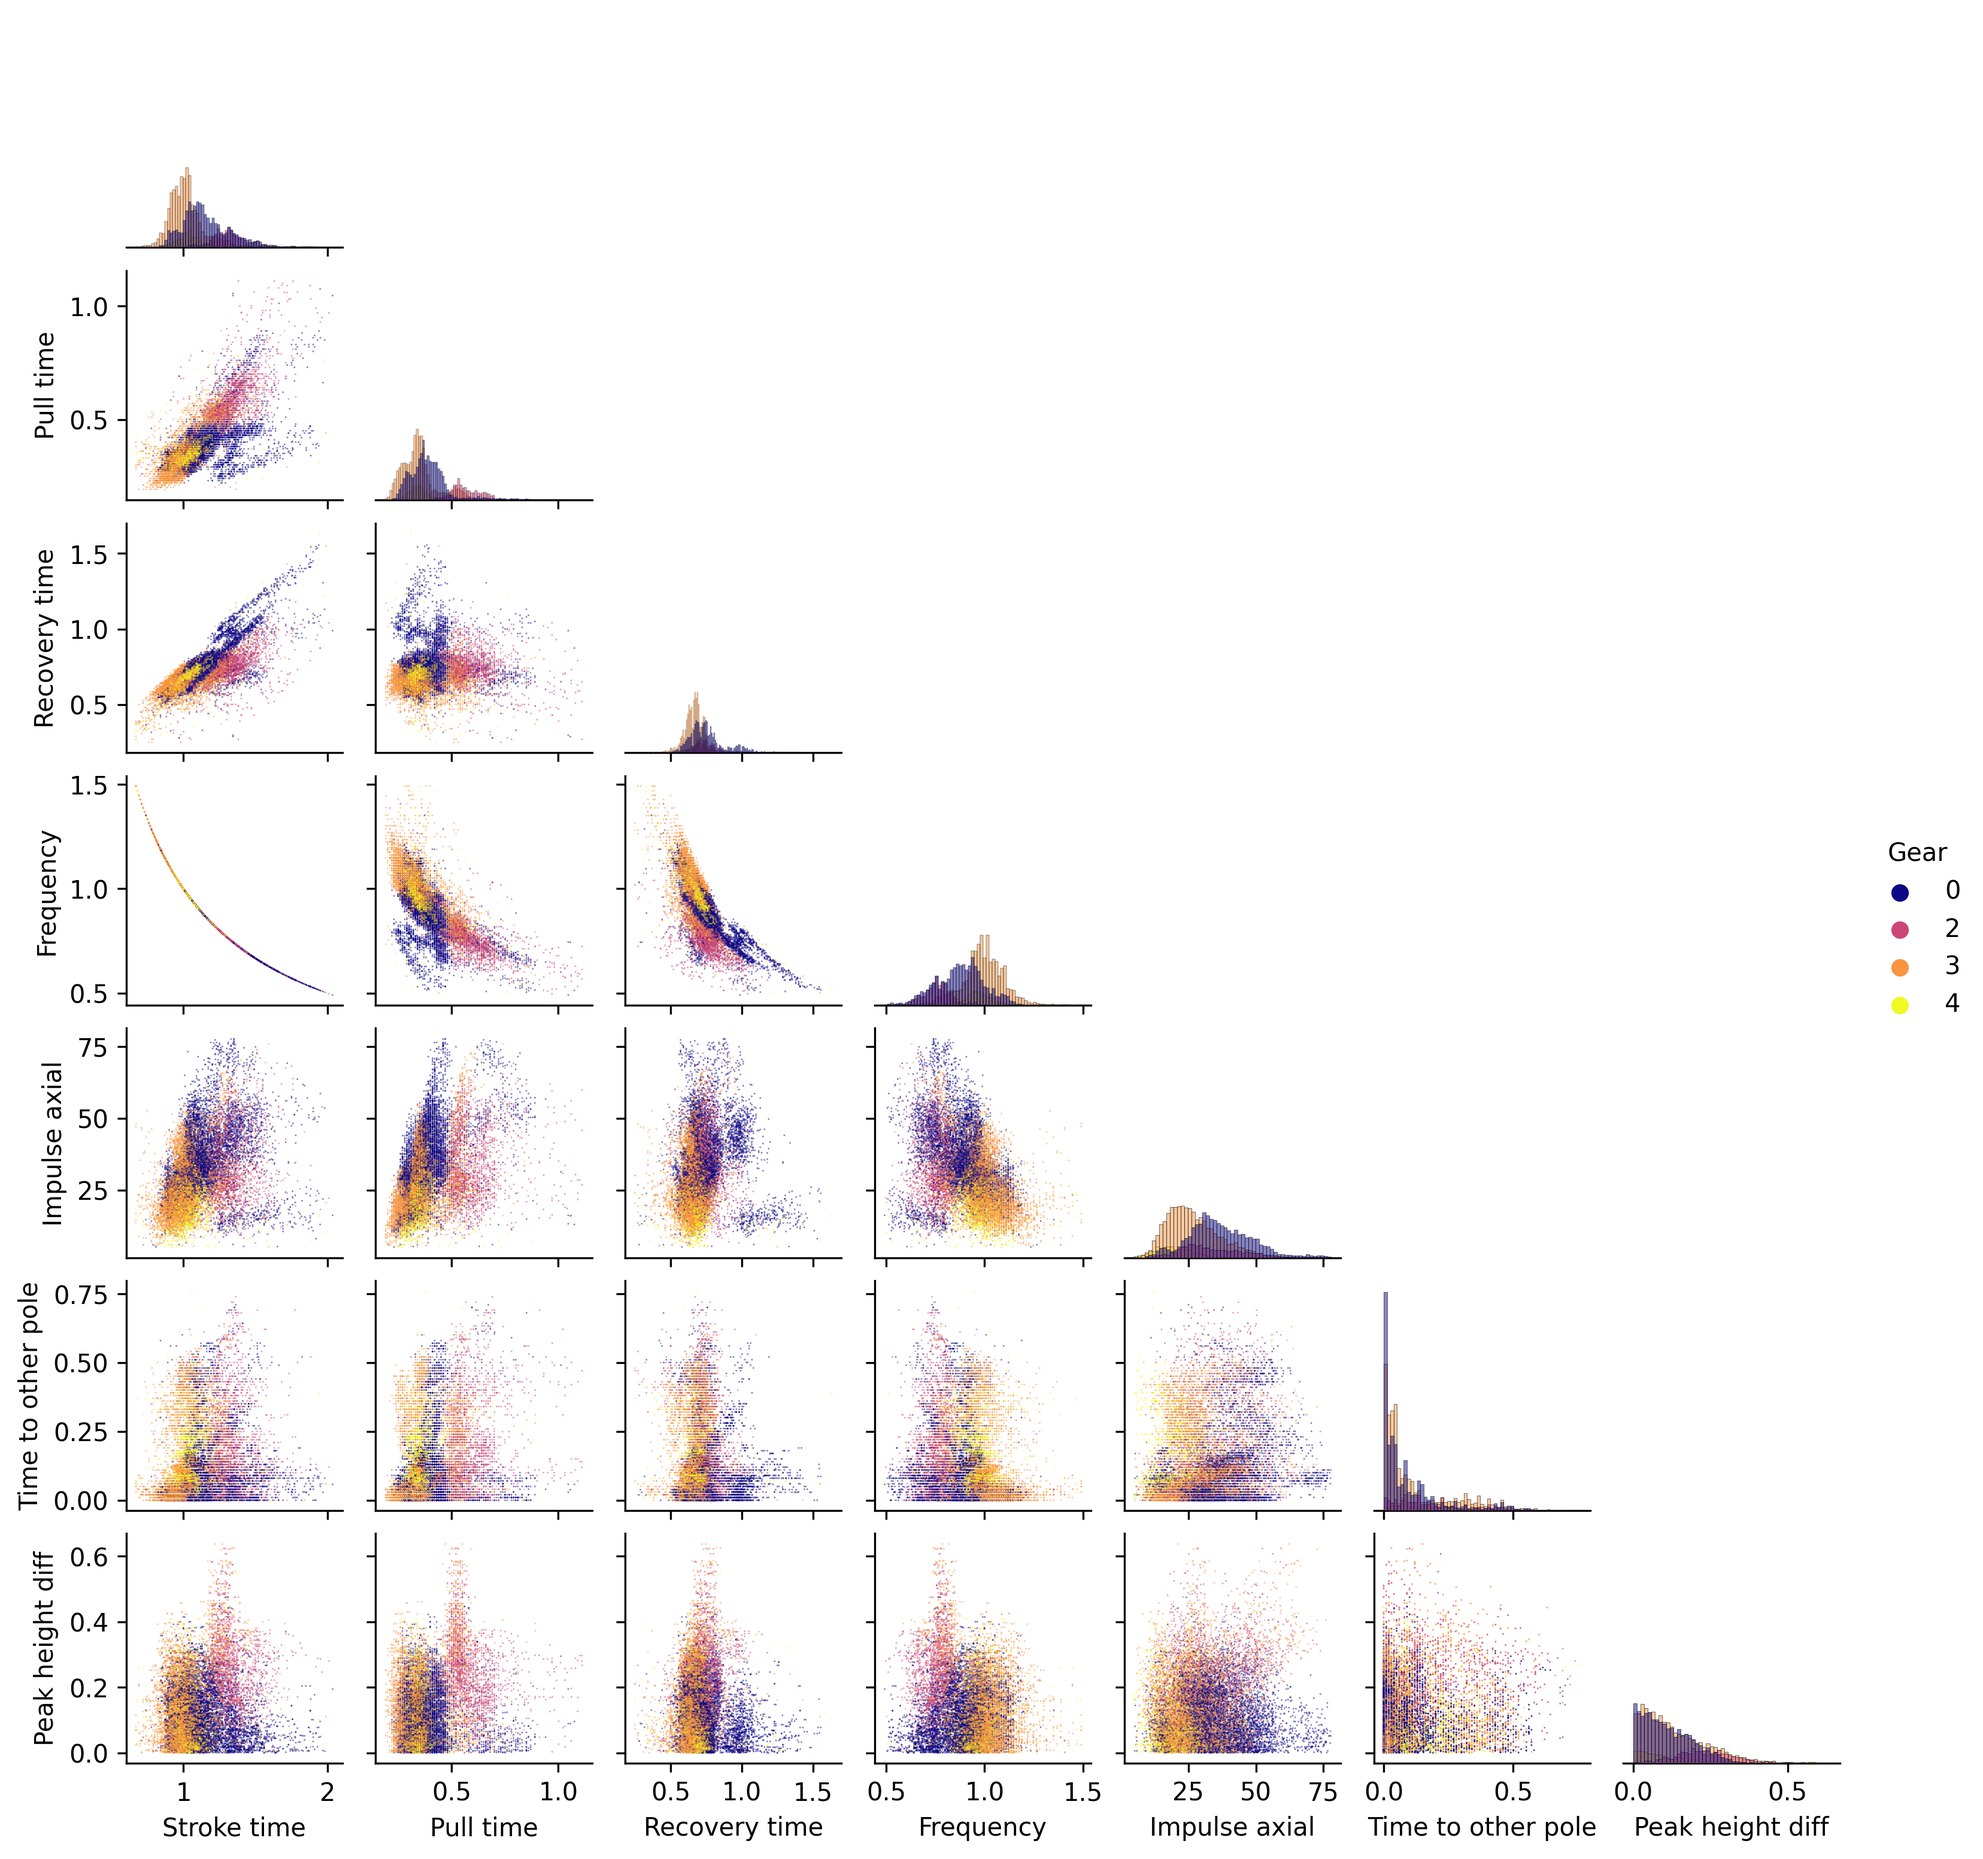
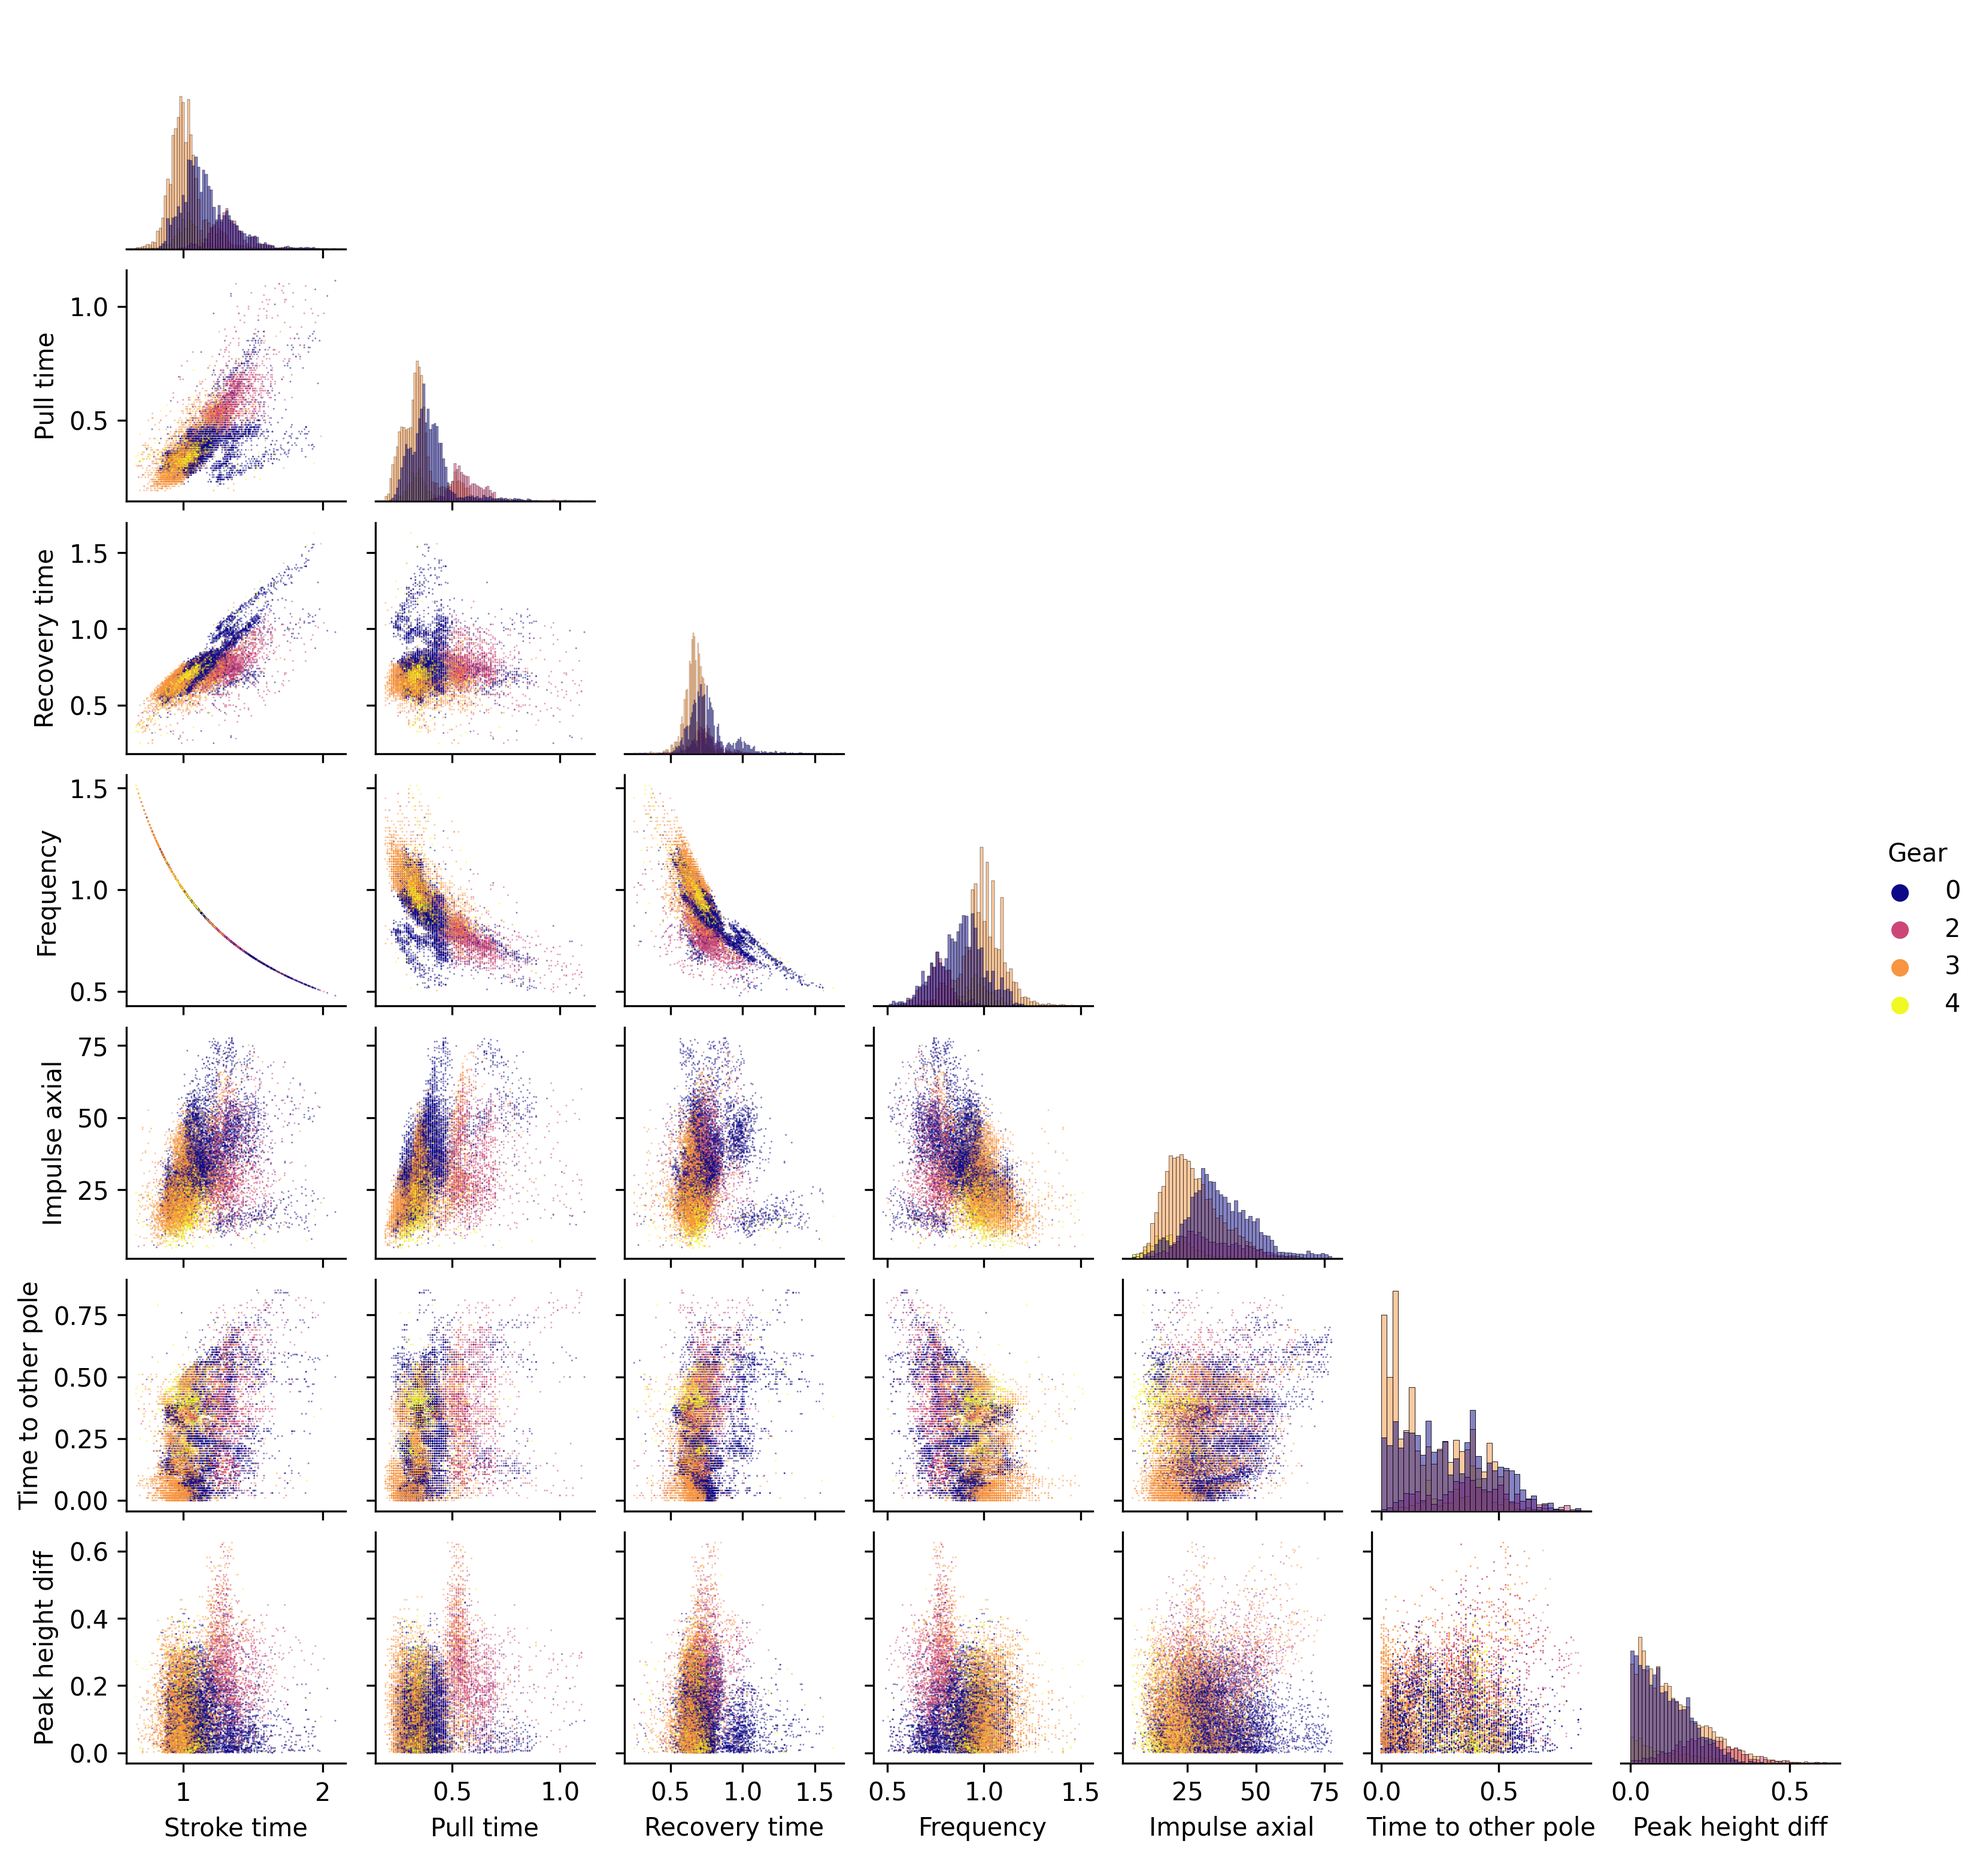
Final changes to algortihm

diff --git a/functions/dataframe_functions.py b/functions/dataframe_functions.py
@@ -66,145 +66,7 @@ def get_dataframe(filepath_list, skier_list):
     return df, df_peaks, df_info
 
 
-def get_dataframe_with_shift(filepath_list, skier_list):
-    """
-    The main function to call to generate all dataframes
-
-    Parameters
-    ----------
-    filepath_list : list of strings
-        A list of the filepath for the CSV files for the source files
-
-    skier_list : list of ints
-        A list of the indentity of the different skiers.
-
-    Returns
-    -------
-    df : dataframe
-        Dataframe over the timeseries data
-
-    df_peaks : dataframe
-        Dataframe over the stroke information on a timeseries basis
-
-    df_info : dataframe
-        Dataframe over individual pulling, the dataframe for doing
-        machine learning since it doesn't contain any timeseries information
-    """
-    for j in range(len(skier_list)):
-        i = skier_list[j]
-        filepath = filepath_list[j]
-        # If it's the first call we save to variables without append, else with
-        # append
-        if i == skier_list[0]:
-            # Calling the generate_stroke_dataframe to get all of the data
-            dataframe_dict = generate_stroke_dataframe_with_shift(filepath, i)
-            # Saving the data to variables
-            df = dataframe_dict["df"]
-            df_peaks = dataframe_dict["df_peaks_left"]
-            df_peaks = df_peaks.append(
-                dataframe_dict["df_peaks_right"], ignore_index=True
-            )
-            df_info = dataframe_dict["df_info_left"]
-            df_info = df_info.append(
-                dataframe_dict["df_info_right"], ignore_index=True
-            )
-        else:
-            # Calling generate_stroke_dataframe for the rest of the skiers
-            dataframe_dict = generate_stroke_dataframe_with_shift(filepath, i)
-            # Appending the data to variables
-            df = df.append(dataframe_dict["df"], ignore_index=True)
-            df_peaks = df_peaks.append(
-                dataframe_dict["df_peaks_left"], ignore_index=True
-            )
-            df_peaks = df_peaks.append(
-                dataframe_dict["df_peaks_right"], ignore_index=True
-            )
-            df_info = df_info.append(
-                dataframe_dict["df_info_left"], ignore_index=True
-            )
-            df_info = df_info.append(
-                dataframe_dict["df_info_right"], ignore_index=True
-            )
-    return df, df_peaks, df_info
-
-
 def generate_stroke_dataframe(filepath, i):
-    """
-    Function to call when getting data from one skier
-
-    Parameters
-    ----------
-    filepath : str
-        Filepath for the specific skier
-
-    i : int
-        Skier indentity
-
-    Returns
-    -------
-    dataframe_dict : dict
-        A dictionary with keys "df", "df_peaks_left", "df_peaks_right",
-        "df_info_left", "df_info_right" which are all dataframes
-    """
-    # Reading CSV
-    df = ImportData(filepath, i)
-    # Needing to fix the timeseries, using the same method as MATLAB
-    df["Time (sec)"] = np.linspace(
-        np.min(df["Time (sec)"]), np.max(df["Time (sec)"]), len(df.index)
-    )
-    # Same for min
-    df["Time (min)"] = np.linspace(
-        np.min(df["Time (min)"]), np.max(df["Time (min)"]), len(df.index)
-    )
-
-    # Calling GetStrokes and GetInfo for both left and right
-    df_peaks_left = GetStrokes(df, "Left")
-    df_peaks_right = GetStrokes(df, "Right")
-    df_info_left = GetInfo(df_peaks_left)
-    df_info_right = GetInfo(df_peaks_right)
-    # Adding the time between nearest left and right pulling
-    df_info_left, df_info_right = add_left_and_right_diff(
-        df_peaks_left, df_peaks_right, df_info_left, df_info_right
-    )
-    left_0 = df_peaks_left[df_peaks_left["Gear"] == 0][10:90]
-    left_0 = left_0["Peak time"].values
-    right_0 = df_info_left[df_info_left["Gear"] == 0][10:90]
-    right_0 = right_0["Other pole time"].values
-    x = left_0
-    y = left_0 - right_0
-    k, m = np.polyfit(x, y, 1)
-    time = df["Time (sec)"].values
-    comp = k * np.linspace(np.min(time), np.max(time), len(time)) + m
-    time = time - comp
-    df["Force right (N)"] = np.interp(
-        time, df["Time (sec)"], df["Force right (N)"], left=0, right=0
-    )
-    df["Time (sec)"] = time
-    df["Time (min)"] = time / 60
-
-    df_peaks_left = GetStrokes(df, "Left")
-    df_peaks_right = GetStrokes(df, "Right")
-
-    df_info_left = GetInfo(df_peaks_left)
-    df_info_right = GetInfo(df_peaks_right)
-
-    # Adding the time between nearest left and right pulling
-    df_info_left, df_info_right = add_left_and_right_diff(
-        df_peaks_left, df_peaks_right, df_info_left, df_info_right
-    )
-
-    # Saving it all to a dictionary
-    dataframe_dict = {
-        "df": df,
-        "df_peaks_left": df_peaks_left,
-        "df_peaks_right": df_peaks_right,
-        "df_info_left": df_info_left,
-        "df_info_right": df_info_right,
-    }
-    return dataframe_dict
-
-
-def generate_stroke_dataframe_with_shift(filepath, i):
     """
     Function to call when getting data from one skier
 
@@ -240,32 +102,6 @@ def generate_stroke_dataframe_with_shift(filepath, i):
     df_peaks_right = GetStrokes(df, "Right")
     df_info_left = GetInfo(df_peaks_left)
     df_info_right = GetInfo(df_peaks_right)
-    # Adding the time between nearest left and right pulling
-    df_info_left, df_info_right = add_left_and_right_diff(
-        df_peaks_left, df_peaks_right, df_info_left, df_info_right
-    )
-    left_0 = df_peaks_left[df_peaks_left["Gear"] == 0][10:90]
-    left_0 = left_0["Peak time"].values
-    right_0 = df_info_left[df_info_left["Gear"] == 0][10:90]
-    right_0 = right_0["Other pole time"].values
-    x = left_0
-    y = left_0 - right_0
-    k, m = np.polyfit(x, y, 1)
-    time = df["Time (sec)"].values
-    comp = k * np.linspace(np.min(time), np.max(time), len(time)) + m
-    time = time - comp
-    df["Force right (N)"] = np.interp(
-        time, df["Time (sec)"], df["Force right (N)"], left=0, right=0
-    )
-    df["Time (sec)"] = time
-    df["Time (min)"] = time / 60
-
-    df_peaks_left = GetStrokes(df, "Left")
-    df_peaks_right = GetStrokes(df, "Right")
-
-    df_info_left = GetInfo(df_peaks_left)
-    df_info_right = GetInfo(df_peaks_right)
-
     # Adding the time between nearest left and right pulling
     df_info_left, df_info_right = add_left_and_right_diff(
         df_peaks_left, df_peaks_right, df_info_left, df_info_right

diff --git a/gridplot.py b/gridplot.py
@@ -26,7 +26,7 @@ df_sub = df_info[
 #    df_sub = df_sub.sample(7000)
 ds = hv.Dataset(df_sub).groupby("Gear").overlay()
 point_grid = gridmatrix(ds, chart_type=hv.Points)
-point_grid.opts(opts.Points(size=1, alpha=0.3, cmap="Plasma"))
+point_grid.opts(opts.Points(size=1, alpha=0.3, cmap="plasma"))
 legend = point_grid[("Frequency", "Time to other pole")].opts(
     xaxis=None,
     yaxis=None,
@@ -43,8 +43,8 @@ sns_plot = sns.pairplot(
     hue="Gear",
     diag_kind="hist",
     corner=True,
-    palette="flare",
-    plot_kws={"s": 2},
+    palette="plasma",
+    plot_kws={"s": 0.5, "alpha": 0.5, "linewidth": 0},
     height=1.5,
 )
-sns_plot.savefig("figures/Gait_analysis.png")
+sns_plot.savefig("figures/Gait_analysis.png", dpi=300)
